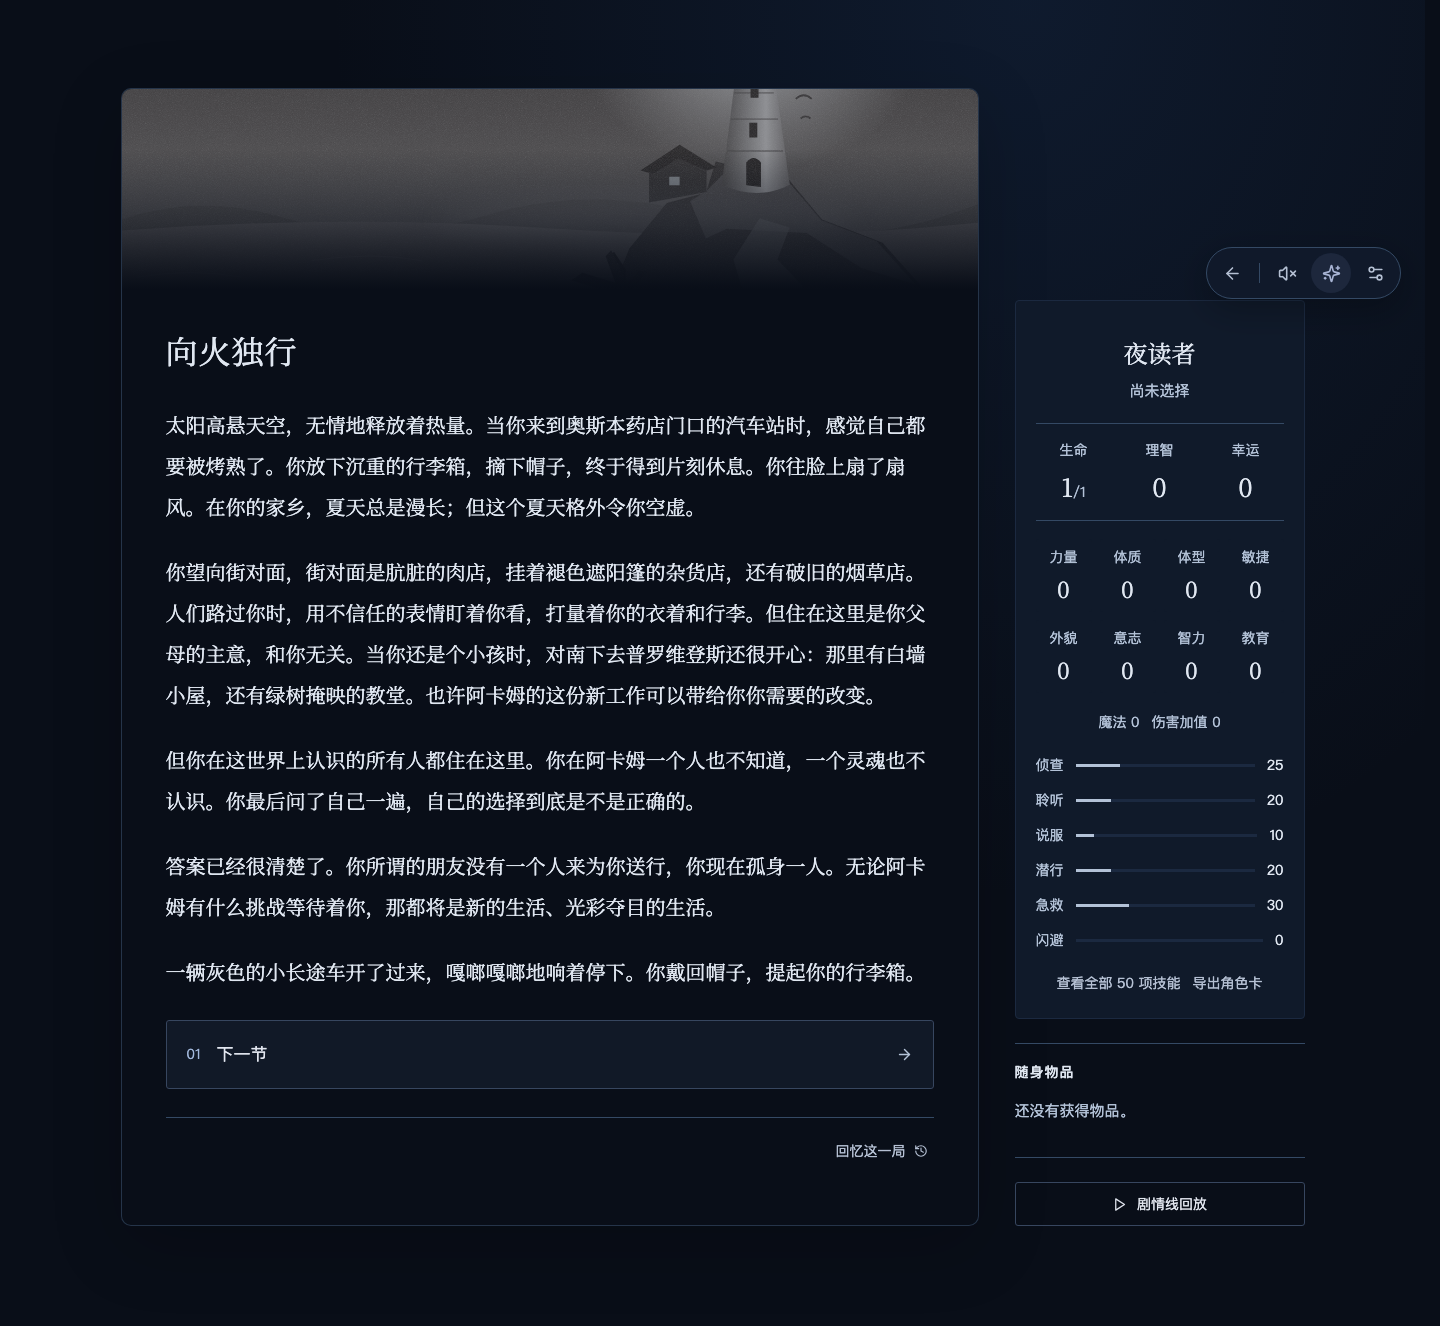
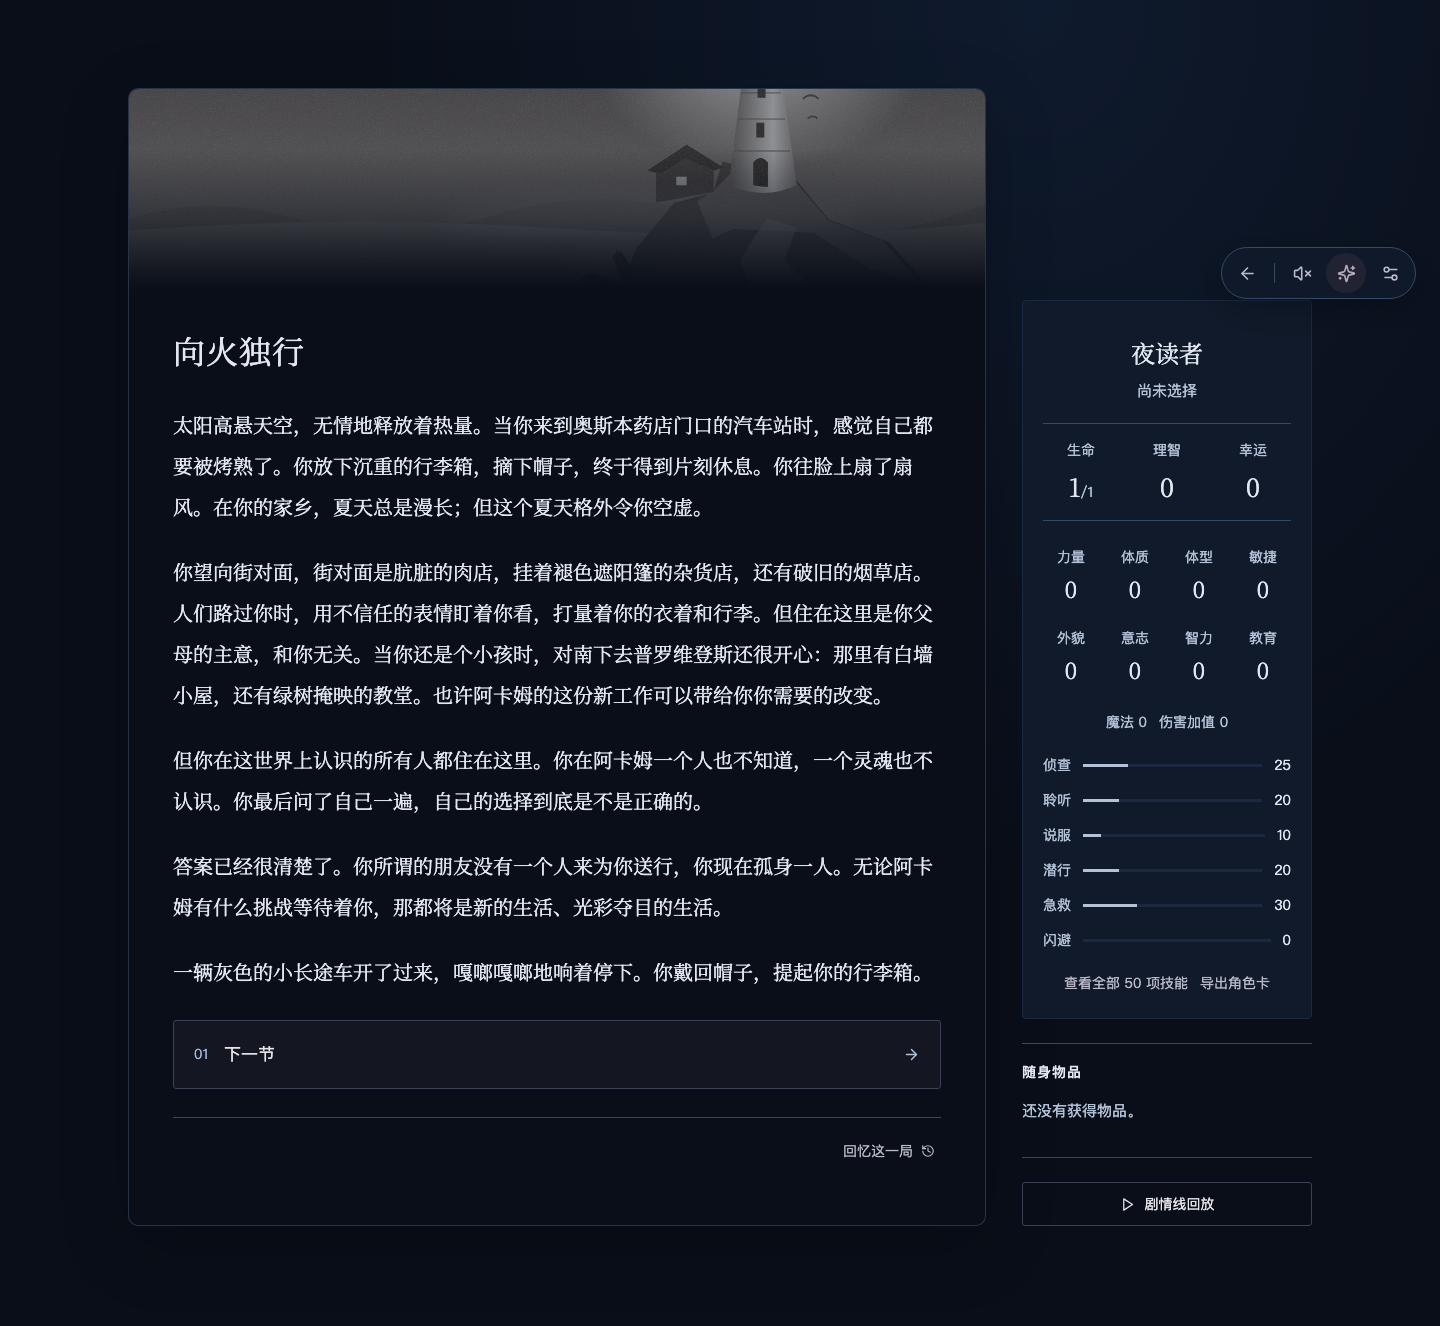
feat: add daylight paper theme for daytime reading

diff --git a/tests/browser/reading.spec.ts b/tests/browser/reading.spec.ts
@@ -5,13 +5,14 @@ test("reader themes persist, the story hides outer chrome and both page-scroll m
   test.setTimeout(90_000);
   await page.goto("/");
   await page.getByRole("button", { name: "选择配色" }).click();
-  await expect(page.locator(".theme-option")).toHaveCount(4);
+  await expect(page.locator(".theme-option")).toHaveCount(5);
   await expect(page.getByLabel("新剧情回到正文开头")).toBeChecked();
   for (const [id, name] of [
     ["bloodmoon", "血月"],
     ["abyss", "深渊"],
     ["nightmare", "梦魇"],
     ["sepia", "旧日手稿"],
+    ["daylight", "白昼公文"],
   ]) {
     await page
       .locator(".theme-option")
@@ -57,6 +58,7 @@ test("reader themes persist, the story hides outer chrome and both page-scroll m
     ["abyss", "深渊"],
     ["nightmare", "梦魇"],
     ["sepia", "旧日手稿"],
+    ["daylight", "白昼公文"],
   ]) {
     const position = await page.evaluate(() => scrollY);
     await page.getByRole("button", { name: "阅读偏好", exact: true }).click();

diff --git a/apps/web/src/styles.css b/apps/web/src/styles.css
@@ -60,6 +60,31 @@
   --accent-glow: #956d3930;
   --image-filter: grayscale(0.7) sepia(0.4) saturate(0.6);
 }
+/* Daylight document theme: white paper, ink text and quiet steel-blue links. */
+html[data-theme="daylight"] {
+  color-scheme: light;
+  --bg: #f6f5f1;
+  --surface: #ffffff;
+  --surface-raised: #e9e6df;
+  --border: #d7d3ca;
+  --text: #2f2d29;
+  --muted: #77736b;
+  --muted-bright: #57534c;
+  --accent: #43607e;
+  --accent-glow: #43607e18;
+  --image-filter: grayscale(0.3) contrast(0.95) saturate(0.8);
+  --check-success: #2f7d4f;
+  --check-failure: #b34a52;
+}
+html[data-theme="daylight"] .custom-skills strong.invalid {
+  color: #a3542e;
+}
+html[data-theme="daylight"] .modal {
+  box-shadow: 0 24px 70px #0002;
+}
+html[data-theme="daylight"] .sidebar.mobile-open {
+  box-shadow: 30px 0 80px #0004;
+}
 * {
   box-sizing: border-box;
 }

diff --git a/apps/web/src/components/ReadingSettings.tsx b/apps/web/src/components/ReadingSettings.tsx
@@ -35,6 +35,12 @@ export const readingThemes = [
     description: "焦褐与旧纸骨白，尘封档案中的低语。",
     colors: ["#14100d", "#2c231b", "#ccb28c"],
   },
+  {
+    id: "daylight",
+    name: "白昼公文",
+    description: "白纸墨字与钢青链接，办公时间的一页普通文档。",
+    colors: ["#f6f5f1", "#ffffff", "#43607e"],
+  },
 ] as const;
 export type ReadingTheme = (typeof readingThemes)[number]["id"];
 export type PageScroll = "top" | "preserve";
